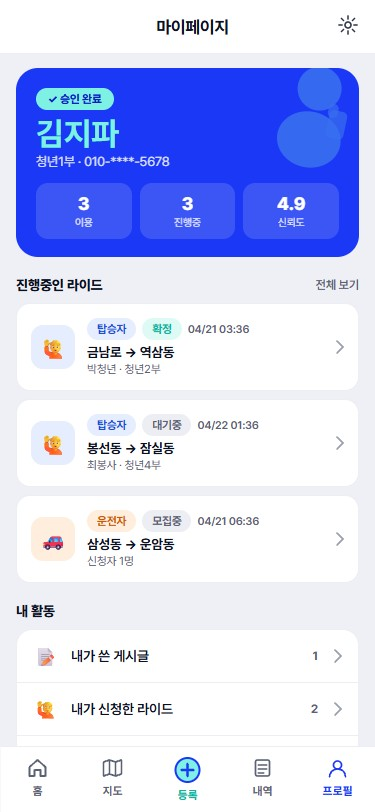
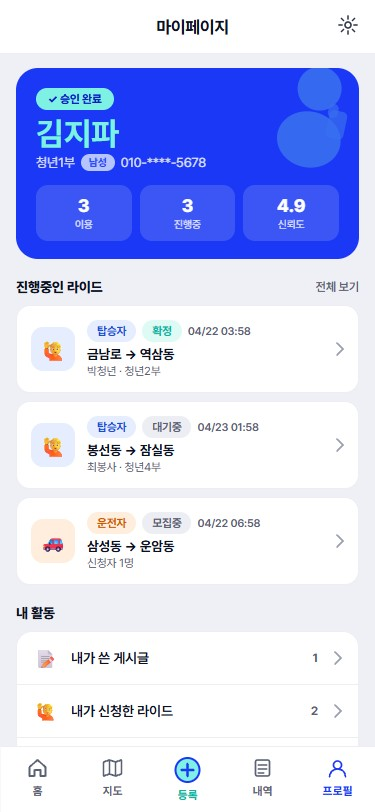
feat: 사용자 카드에 성별 배지 추가
메인 피드 게시글 카드, 게시글 상세(운전자/신청자), 마이페이지 프로필에
남성(파란)/여성(분홍) 배지 표시

diff --git a/src/pages/RideDetailPage.tsx b/src/pages/RideDetailPage.tsx
@@ -158,6 +158,15 @@ export function RideDetailPage() {
               <div style={{ fontSize: 14, fontWeight: 700, display: 'flex', alignItems: 'center', gap: 6 }}>
                 {driver?.name}
                 <span className="post-badge post-badge--mint" style={{ fontSize: 10.5 }}>인증</span>
+                {driver?.gender && (
+                  <span style={{
+                    fontSize: 10, fontWeight: 700, padding: '2px 7px', borderRadius: 999,
+                    background: driver.gender === 'F' ? '#FFE4EF' : '#E4EEFF',
+                    color: driver.gender === 'F' ? '#C0185A' : '#1A38F5',
+                  }}>
+                    {driver.gender === 'F' ? '여성' : '남성'}
+                  </span>
+                )}
               </div>
               <div style={{ fontSize: 12, color: 'var(--ink-60)', marginTop: 2 }}>
                 {driver?.department} · 운행 {isMyRide ? '직접 등록' : '다수 회'}
@@ -185,7 +194,18 @@ export function RideDetailPage() {
                       {req.passenger?.name?.charAt(0)}
                     </div>
                     <div style={{ flex: 1 }}>
-                      <div style={{ fontSize: 13, fontWeight: 700 }}>{req.passenger?.name}</div>
+                      <div style={{ fontSize: 13, fontWeight: 700, display: 'flex', alignItems: 'center', gap: 5 }}>
+                        {req.passenger?.name}
+                        {req.passenger?.gender && (
+                          <span style={{
+                            fontSize: 10, fontWeight: 700, padding: '1px 6px', borderRadius: 999,
+                            background: req.passenger.gender === 'F' ? '#FFE4EF' : '#E4EEFF',
+                            color: req.passenger.gender === 'F' ? '#C0185A' : '#1A38F5',
+                          }}>
+                            {req.passenger.gender === 'F' ? '여' : '남'}
+                          </span>
+                        )}
+                      </div>
                       <div style={{ fontSize: 11.5, color: 'var(--ink-60)' }}>
                         {req.passenger?.department} · {req.pickup_location}
                       </div>

diff --git a/src/pages/MyPage.tsx b/src/pages/MyPage.tsx
@@ -125,8 +125,18 @@ export function MyPage() {
 
           <span className="my-approved-badge">✓ 승인 완료</span>
           <div className="hand my-profile-name">{MOCK_USER.name}</div>
-          <div className="my-profile-sub">
-            {MOCK_USER.department} · {MOCK_USER.phone.replace(/(\d{3})-(\d{4})-(\d{4})/, '$1-****-$3')}
+          <div className="my-profile-sub" style={{ display: 'flex', alignItems: 'center', gap: 6, flexWrap: 'wrap' }}>
+            <span>{MOCK_USER.department}</span>
+            {MOCK_USER.gender && (
+              <span style={{
+                fontSize: 10.5, fontWeight: 700, padding: '2px 8px', borderRadius: 999,
+                background: MOCK_USER.gender === 'F' ? 'rgba(255,228,239,0.9)' : 'rgba(228,238,255,0.9)',
+                color: MOCK_USER.gender === 'F' ? '#C0185A' : '#1A38F5',
+              }}>
+                {MOCK_USER.gender === 'F' ? '여성' : '남성'}
+              </span>
+            )}
+            <span>{MOCK_USER.phone.replace(/(\d{3})-(\d{4})-(\d{4})/, '$1-****-$3')}</span>
           </div>
 
           <div style={{ display: 'flex', gap: 8, marginTop: 14 }}>

diff --git a/src/components/ride/RideCard.tsx b/src/components/ride/RideCard.tsx
@@ -81,7 +81,18 @@ export function RideCard({ ride, isMyRide = false, myRequestStatus = null }: Pro
             </div>
             <div>
               <div className="post-user-name">{ride.driver?.name}</div>
-              <div className="post-user-dept">{ride.driver?.department}</div>
+              <div style={{ display: 'flex', alignItems: 'center', gap: 4, marginTop: 2 }}>
+                <span className="post-user-dept">{ride.driver?.department}</span>
+                {ride.driver?.gender && (
+                  <span style={{
+                    fontSize: 10, fontWeight: 700, padding: '1px 6px', borderRadius: 999,
+                    background: ride.driver.gender === 'F' ? '#FFE4EF' : '#E4EEFF',
+                    color: ride.driver.gender === 'F' ? '#C0185A' : '#1A38F5',
+                  }}>
+                    {ride.driver.gender === 'F' ? '여' : '남'}
+                  </span>
+                )}
+              </div>
             </div>
           </div>
 
